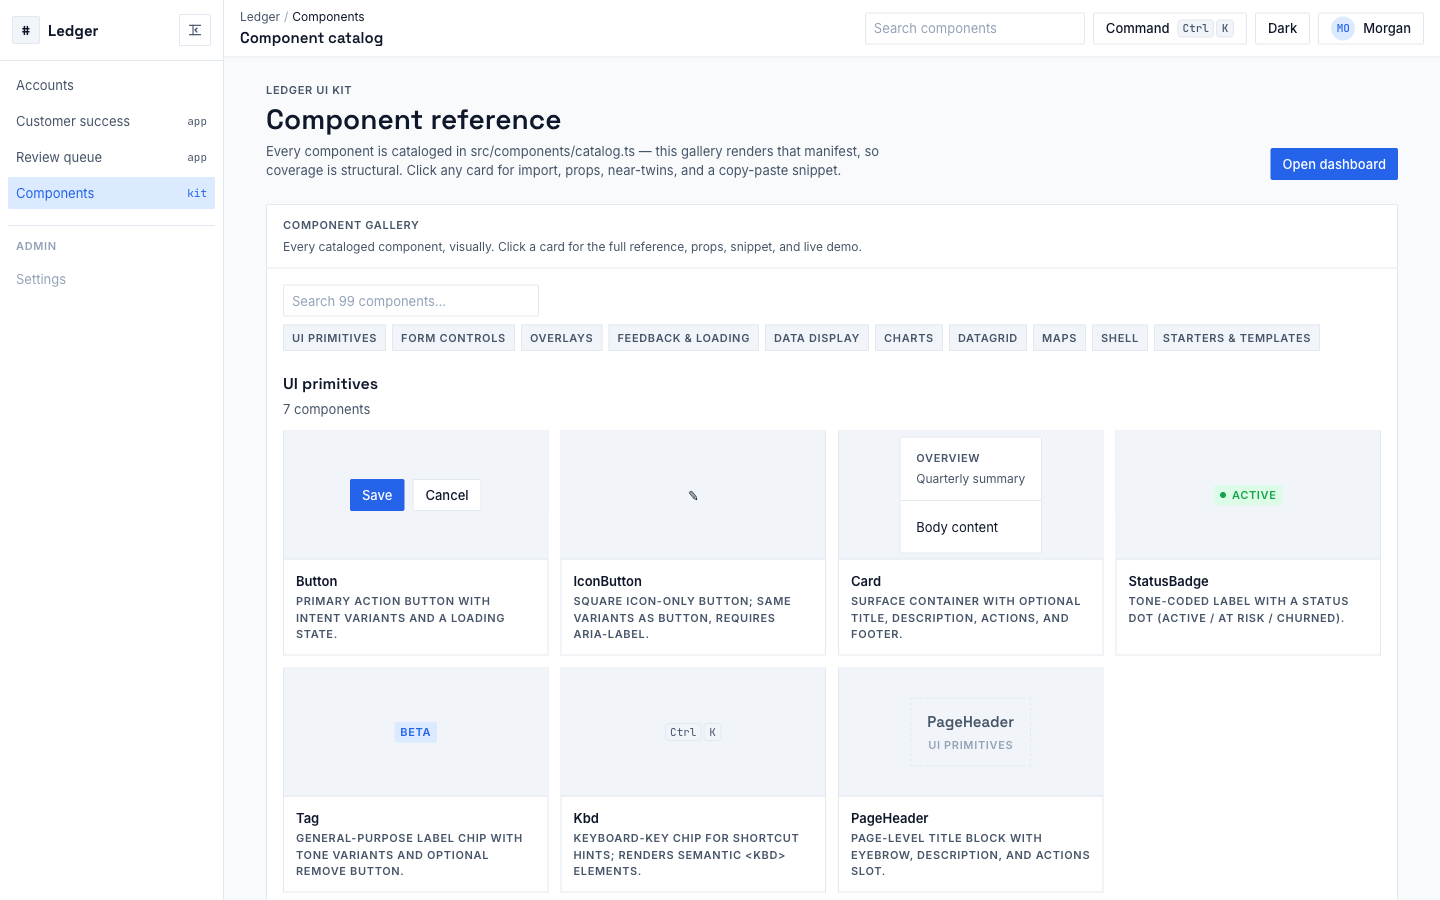
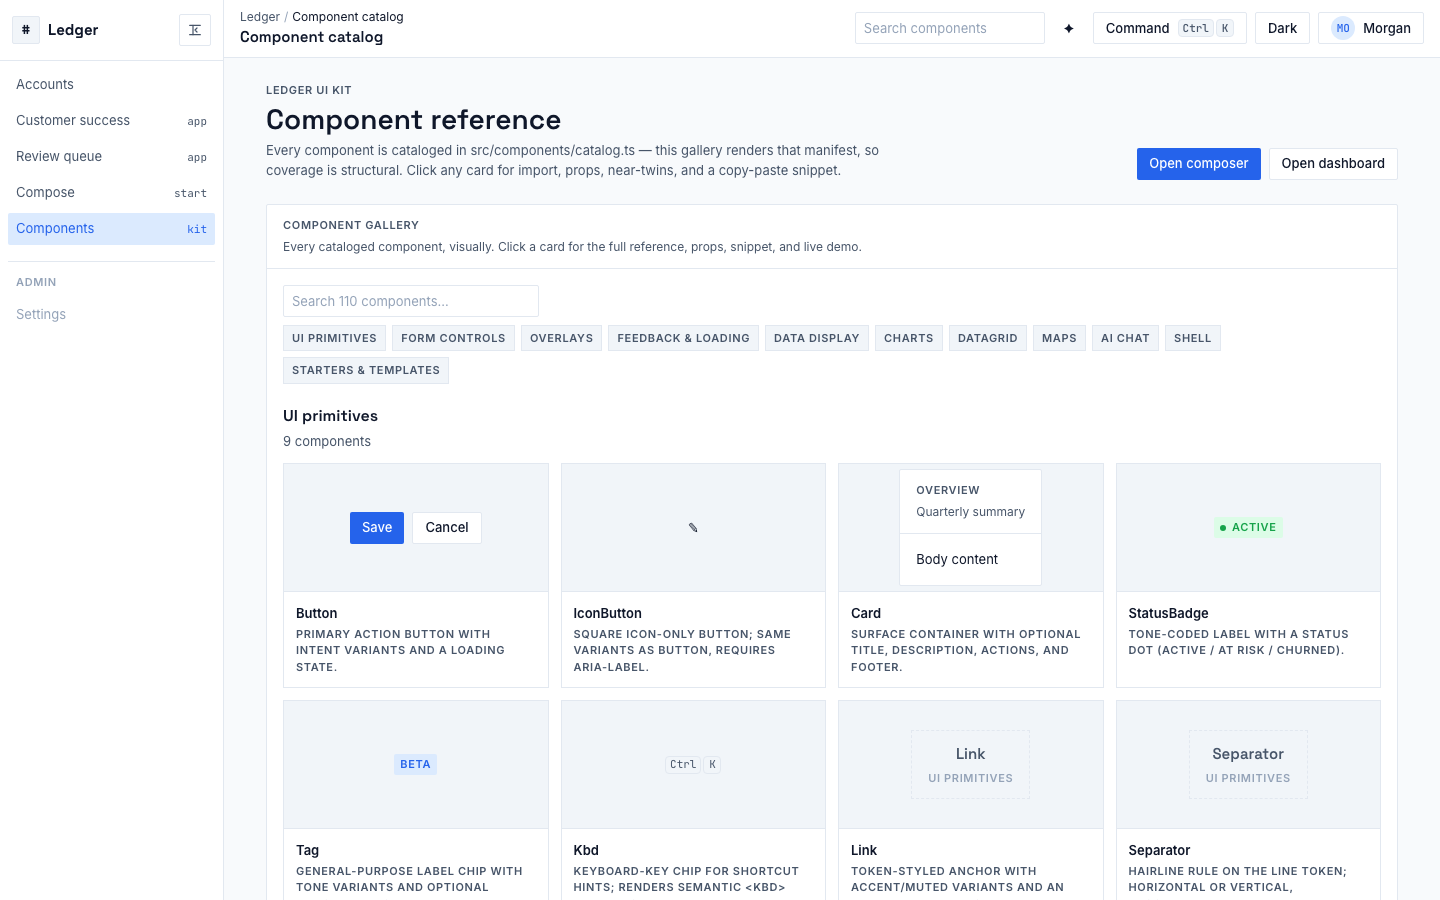
docs: refresh public README and component catalog screenshot

diff --git a/README.md b/README.md
@@ -6,7 +6,7 @@
 A runnable dashboard starter implementing the **Ledger** design system: sharp, technical,
 data-first. Clone it, run it, customize it — or lift the `src/theme/` folder into your own app.
 
-**[Live demo →](https://nathaniel-lyman.github.io/parts-bin/)** · explore `/compose`, `/docs`, `/login`, and `/settings` in the running app.
+**[Live demo →](https://nathaniel-lyman.github.io/parts-bin/)** · explore `/compose`, `/docs`, `/login`, `/settings`, and the workflow starters under `/templates/*`.
 
 ![Ledger dashboard, dark mode](docs/screenshots/dashboard-dark.png)
 
@@ -25,8 +25,9 @@ recipe) and every component, chart, and page re-skins — zero component edits, 
   developer) with your brand colors and KPIs, and you get a branded, interactive dashboard
   instead of another static spreadsheet. The [agent skills](#agent-skills) make that a guided,
   verified procedure, not a hope.
-- **Founders and PMs** who need a credible product demo fast — every page a dashboard product
-  needs is already built; `/compose` walks you through assembling your own.
+- **Founders and PMs** who need a credible product demo fast — the core dashboard, settings,
+  sign-in, component catalog, and workflow starter pages are already built; `/compose` walks you
+  through assembling your own.
 
 The demo domain is SaaS accounts and MRR, but nothing about the framework is SaaS-specific —
 see [the domain mapping below](#your-first-30-minutes) for what the same dashboard looks like
@@ -78,13 +79,16 @@ order — are written down in [`skills/swap-data-domain/SKILL.md`](skills/swap-d
 
 ## Pages out of the box
 
-Every surface a dashboard product needs, already built from the kit's own primitives. Start at
-**`/compose`** — the guided composer that assembles the rest of these into your app:
+The starter surfaces are already built from the kit's own primitives. Start at
+**`/compose`** — the guided composer that assembles routes, imports, data mapping, and theme snippets:
 
 | | |
 |---|---|
 | ![Sign-in page](docs/screenshots/login-light.png) **`/login`** — split brand-panel sign-in | ![Settings page](docs/screenshots/settings-dark.png) **`/settings`** — appearance, profile, notifications |
-| ![Component catalog](docs/screenshots/components-light.png) **`/docs`** — live catalog of ~99 components | ![Dashboard light](docs/screenshots/dashboard-light.png) **`/`** — KPI + charts + data grid, light mode |
+| ![Component catalog](docs/screenshots/components-light.png) **`/docs`** — live gallery/reference for 110 cataloged components | ![Dashboard light](docs/screenshots/dashboard-light.png) **`/`** — KPI + charts + DataGrid, light mode |
+
+Workflow starter routes are included too: **`/templates/customer-success`** for an account-health console and
+**`/templates/recommendation-review`** for a queue/detail review surface.
 
 ## What's inside
 - **`src/theme/`** — the entire design system (tokens, fonts, base styles, Tailwind mapping,
@@ -96,12 +100,16 @@ Every surface a dashboard product needs, already built from the kit's own primit
   empty/loading states, spinners, pagination, and toasts.
 - **`src/components/shell/`** — clone-ready app structure: app shell, sidebar, top nav,
   breadcrumbs, filter bars, section headers, and settings panels.
-- **`src/components/`** — dashboard components (KPI cards, data table with sort/filter/columns,
-  charts, forms). No raw colors; enforced by `npm run lint:theme`.
+- **`src/components/`** — dashboard components (KPI cards, DataGrid with sorting, filtering,
+  selection, saved views, grouping, editing, export, virtualization, charts, and forms). No raw
+  colors; enforced by `npm run lint:theme`.
+- **`src/components/chat/`** — a composable assistant panel with markdown messages, prompt chips,
+  streaming state, and a demo adapter that can read the current screen context.
 - **`src/components/templates/`** — full-page starters you can route to directly: a guided
-  **App composer** (`/compose`), a dashboard, two workflow consoles, plus a split brand-panel **Login** (`/login`) and a section-scroll
-  **Settings** (`/settings`) page. The starter pages are presentational demos — Settings'
-  Appearance section is the live home for color mode, theme recipe, and density.
+  **App composer** (`/compose`), a dashboard, two workflow consoles, plus a split brand-panel
+  **Login** (`/login`) and a section-scroll **Settings** (`/settings`) page. The starter pages
+  are presentational demos — Settings' Appearance section is the live home for color mode,
+  theme recipe, and density.
 - **`src/hooks/`, `src/selectors/`, `src/data/`** — client-side state, derived metrics, seed data.
 - **`/compose`** — guided admin-app composer that generates route, import, data-mapping, and theme snippets.
 - **`/docs`** — live component catalog with examples, prop guidance, and copy-paste usage snippets.
@@ -133,6 +141,7 @@ picks them up automatically via `.claude/skills/`; other tools find them through
 | `npm run build` | typecheck + production build |
 | `npm run test` | run the Vitest suite |
 | `npm run lint:theme` | fail if raw colors leak outside `src/theme/` |
+| `npm run test:e2e` | run Playwright checks for layout-sensitive flows |
 
 ## Use Ledger in an existing app
 Copy-paste checklist (clone what you need, in order):
@@ -163,4 +172,4 @@ The default theme maps primary action, recommendation intelligence, success, rev
 reject/blocker states to `--accent`, `--intel`, `--pos`, `--warn`, and `--neg`.
 
 ## Tech
-Vite · React · TypeScript · Tailwind CSS v4 · Recharts · TanStack Table · Vitest
+Vite · React · TypeScript · Tailwind CSS v4 · Recharts · TanStack Table · Playwright · Vitest